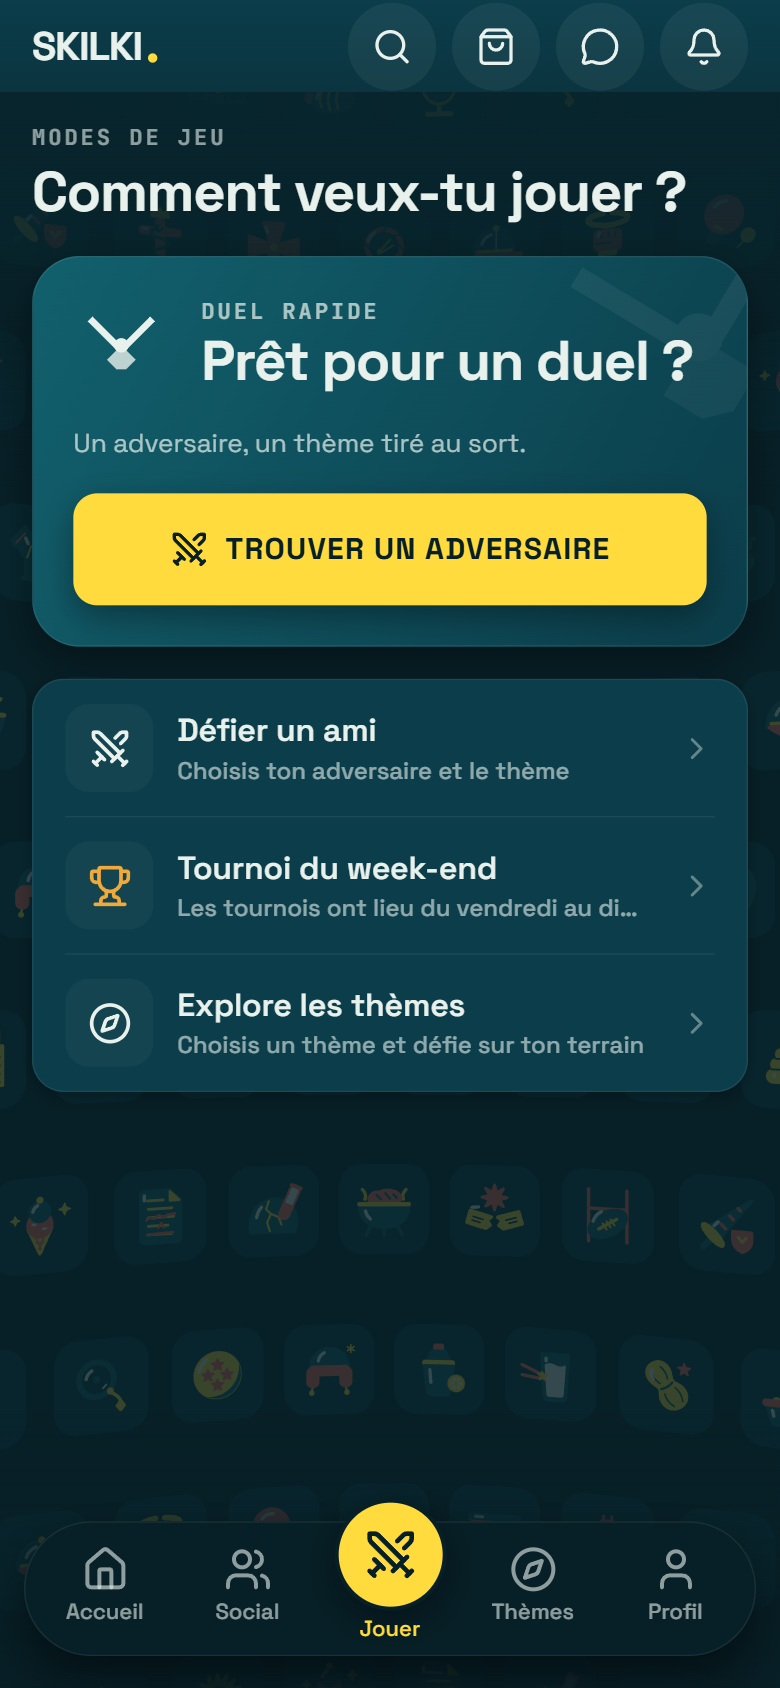
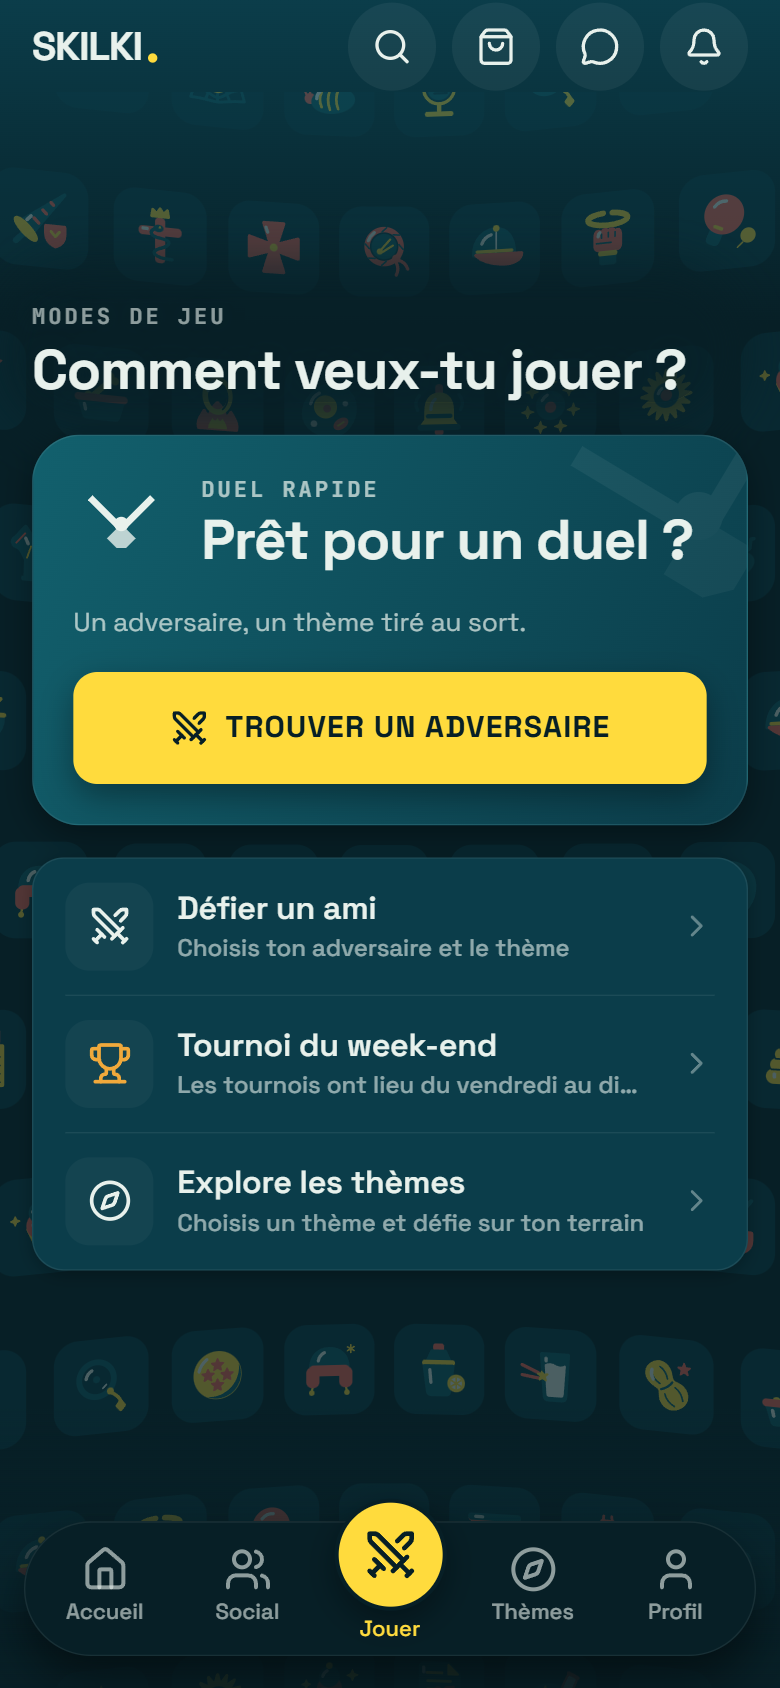
Jouer : contenu centré, motif plus visible (30 %), voile doux derrière le titre

diff --git a/frontend/app/(tabs)/play.tsx b/frontend/app/(tabs)/play.tsx
@@ -70,8 +70,9 @@ export default function PlayScreen() {
     <ThemeIconBackdrop width={area.w} height={area.h} />
     <ScrollView contentContainerStyle={s.scroll} showsVerticalScrollIndicator={false} onScroll={onTabScroll} scrollEventThrottle={16}>
       <View style={s.pageHeader}>
-        <Txt variant="overline">{t('play.modes_eyebrow')}</Txt>
-        <Txt variant="h1">{t('play.modes_title')}</Txt>
+        <View style={s.headerScrim} pointerEvents="none" />
+        <Txt variant="overline" style={s.overMotif}>{t('play.modes_eyebrow')}</Txt>
+        <Txt variant="h1" style={s.overMotif}>{t('play.modes_title')}</Txt>
       </View>
 
       {/* Duel rapide : un seul CTA jaune (même carte que l'Accueil) */}
@@ -131,9 +132,19 @@ export default function PlayScreen() {
 const s = StyleSheet.create({
   root: { flex: 1 },
   // Bas : place réservée à la barre d'onglets flottante
-  scroll: { paddingHorizontal: SPACE.screenX, paddingTop: SPACE.lg, paddingBottom: 120, gap: SPACE.lg },
+  // Contenu centré verticalement : le fond d'icônes reste visible au-dessus et au-dessous
+  scroll: { flexGrow: 1, justifyContent: 'center', paddingHorizontal: SPACE.screenX, paddingTop: SPACE.lg, paddingBottom: 120, gap: SPACE.lg },
   flex: { flex: 1, gap: SPACE.xxs },
   pageHeader: { gap: SPACE.xs },
+  // Voile nuit à bords fondus derrière le titre : le motif s'efface sous le texte, sans cadre visible
+  headerScrim: {
+    position: 'absolute', top: 0, bottom: 0, left: 0, right: SPACE.xl,
+    borderRadius: RADII.xl,
+    backgroundColor: alpha(PALETTE.night, 0.7),
+    boxShadow: `0 0 24px 18px ${alpha(PALETTE.night, 0.7)}`,
+  },
+  // Ombre nuit douce : le titre posé directement sur le motif garde son contraste
+  overMotif: { textShadowColor: PALETTE.night, textShadowOffset: { width: 0, height: 0 }, textShadowRadius: 12 },
 
   // Coque : porte l'ombre (la carte rogne son filigrane, ce qui couperait l'ombre sur iOS)
   heroShell: { borderRadius: RADII.xl, backgroundColor: COLOR.surface.card, ...ELEVATION.e2 },

diff --git a/frontend/components/ui/ThemeIconBackdrop.tsx b/frontend/components/ui/ThemeIconBackdrop.tsx
@@ -15,7 +15,7 @@ import { PALETTE, alpha } from '../../theme/tokens';
 
 const ROWS = 11;              // rangées visibles ; la première et la dernière sont coupées à moitié
 const POOL = 36;              // icônes distinctes utilisées
-const OPACITY = 0.2;          // opacité globale du motif
+const OPACITY = 0.3;          // opacité globale du motif
 const CURVE = 0.07;           // bombé vertical aux bords (fraction de la distance au centre)
 const SPREAD = 0.06;          // étirement horizontal aux bords
 const WIDEN = 0.1;            // grossissement aux bords
@@ -120,22 +120,15 @@ export default function ThemeIconBackdrop({ width, height }: Props) {
           />
         ))}
       </Svg>
-      {/* Voiles : le titre de page (haut) et la barre d'onglets (bas) restent sur un fond calme */}
-      <LinearGradient
-        colors={[alpha(PALETTE.night, 0.75), alpha(PALETTE.night, 0.6), alpha(PALETTE.night, 0)]}
-        locations={[0, 0.55, 1]}
-        style={[styles.veil, styles.veilTop]}
-      />
+      {/* Voile : la barre d'onglets reste sur un fond calme */}
       <LinearGradient
         colors={[alpha(PALETTE.night, 0), alpha(PALETTE.night, 0.8)]}
-        style={[styles.veil, styles.veilBottom]}
+        style={styles.veilBottom}
       />
     </View>
   );
 }
 
 const styles = StyleSheet.create({
-  veil: { position: 'absolute', left: 0, right: 0 },
-  veilTop: { top: 0, height: 200 },  // couvre l'en-tête de page, même sur deux lignes à 320 px
-  veilBottom: { bottom: 0, height: 140 },
+  veilBottom: { position: 'absolute', left: 0, right: 0, bottom: 0, height: 140 },
 });
